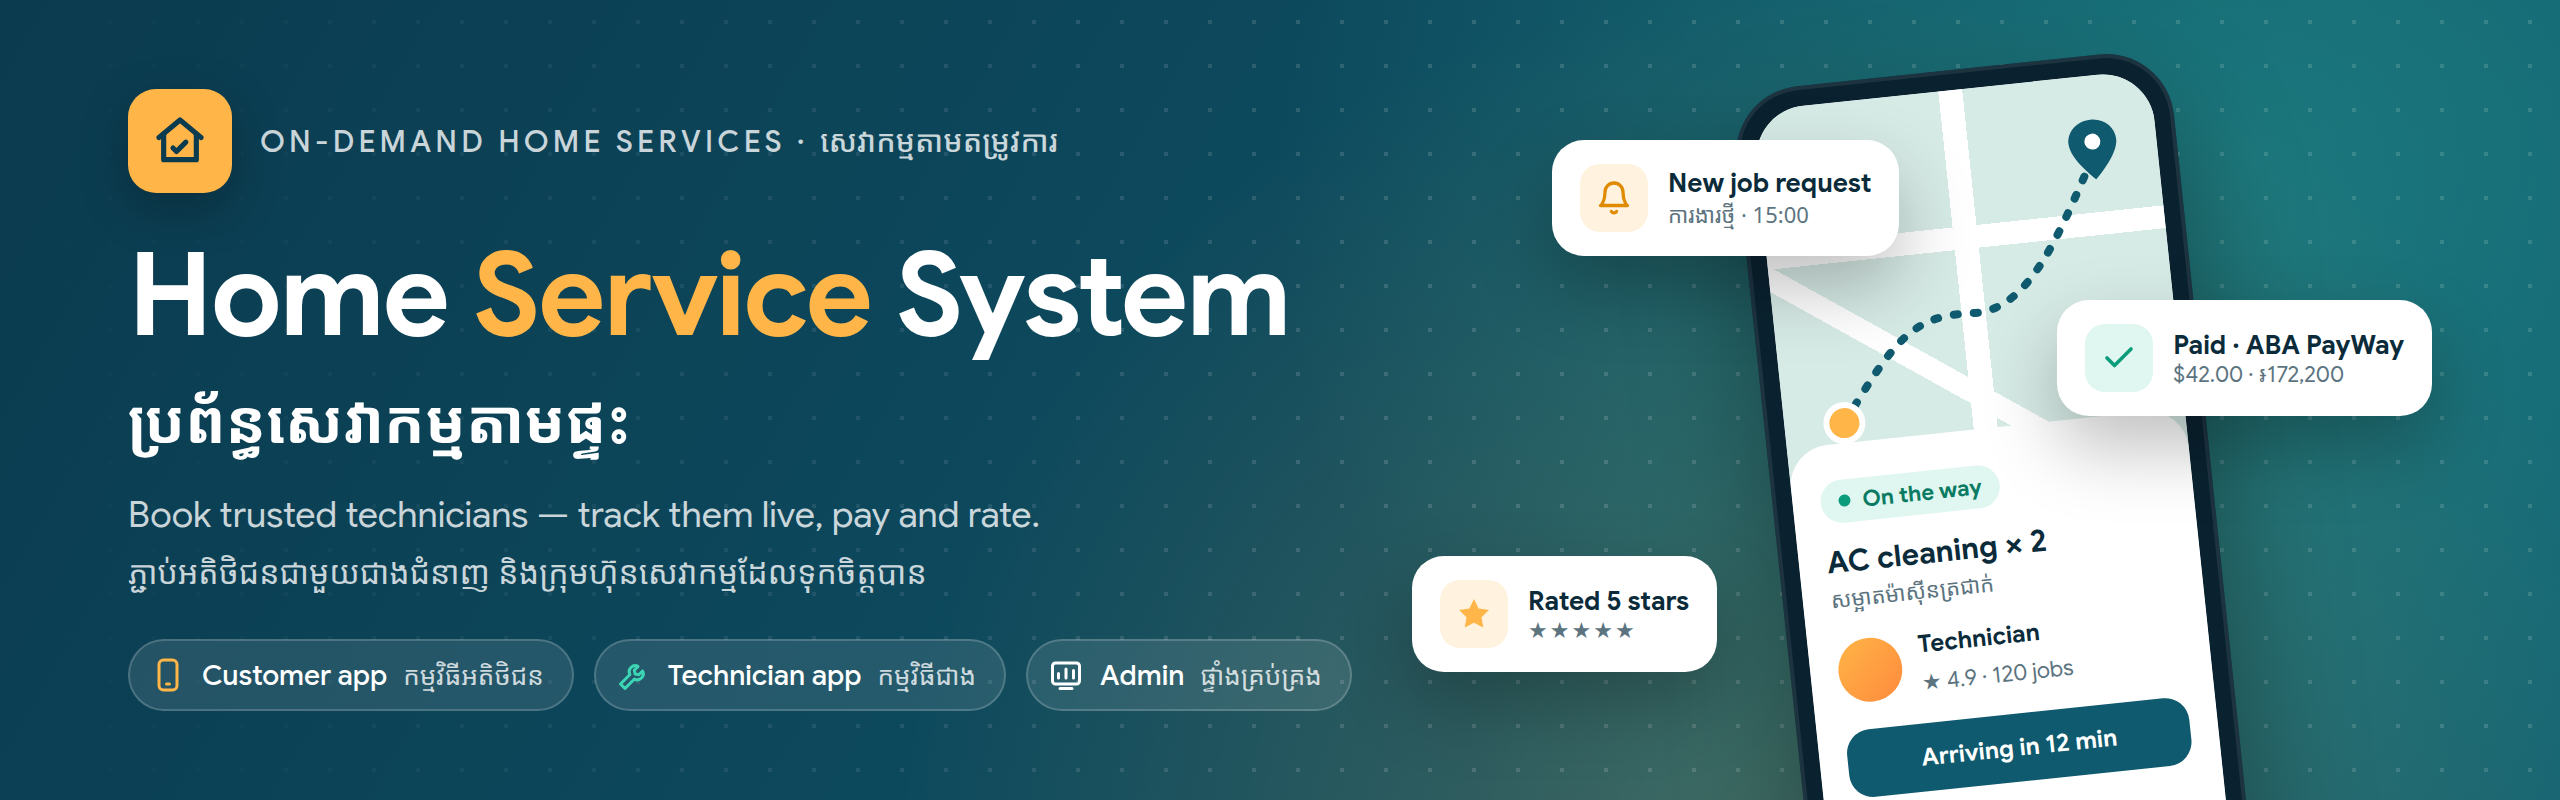
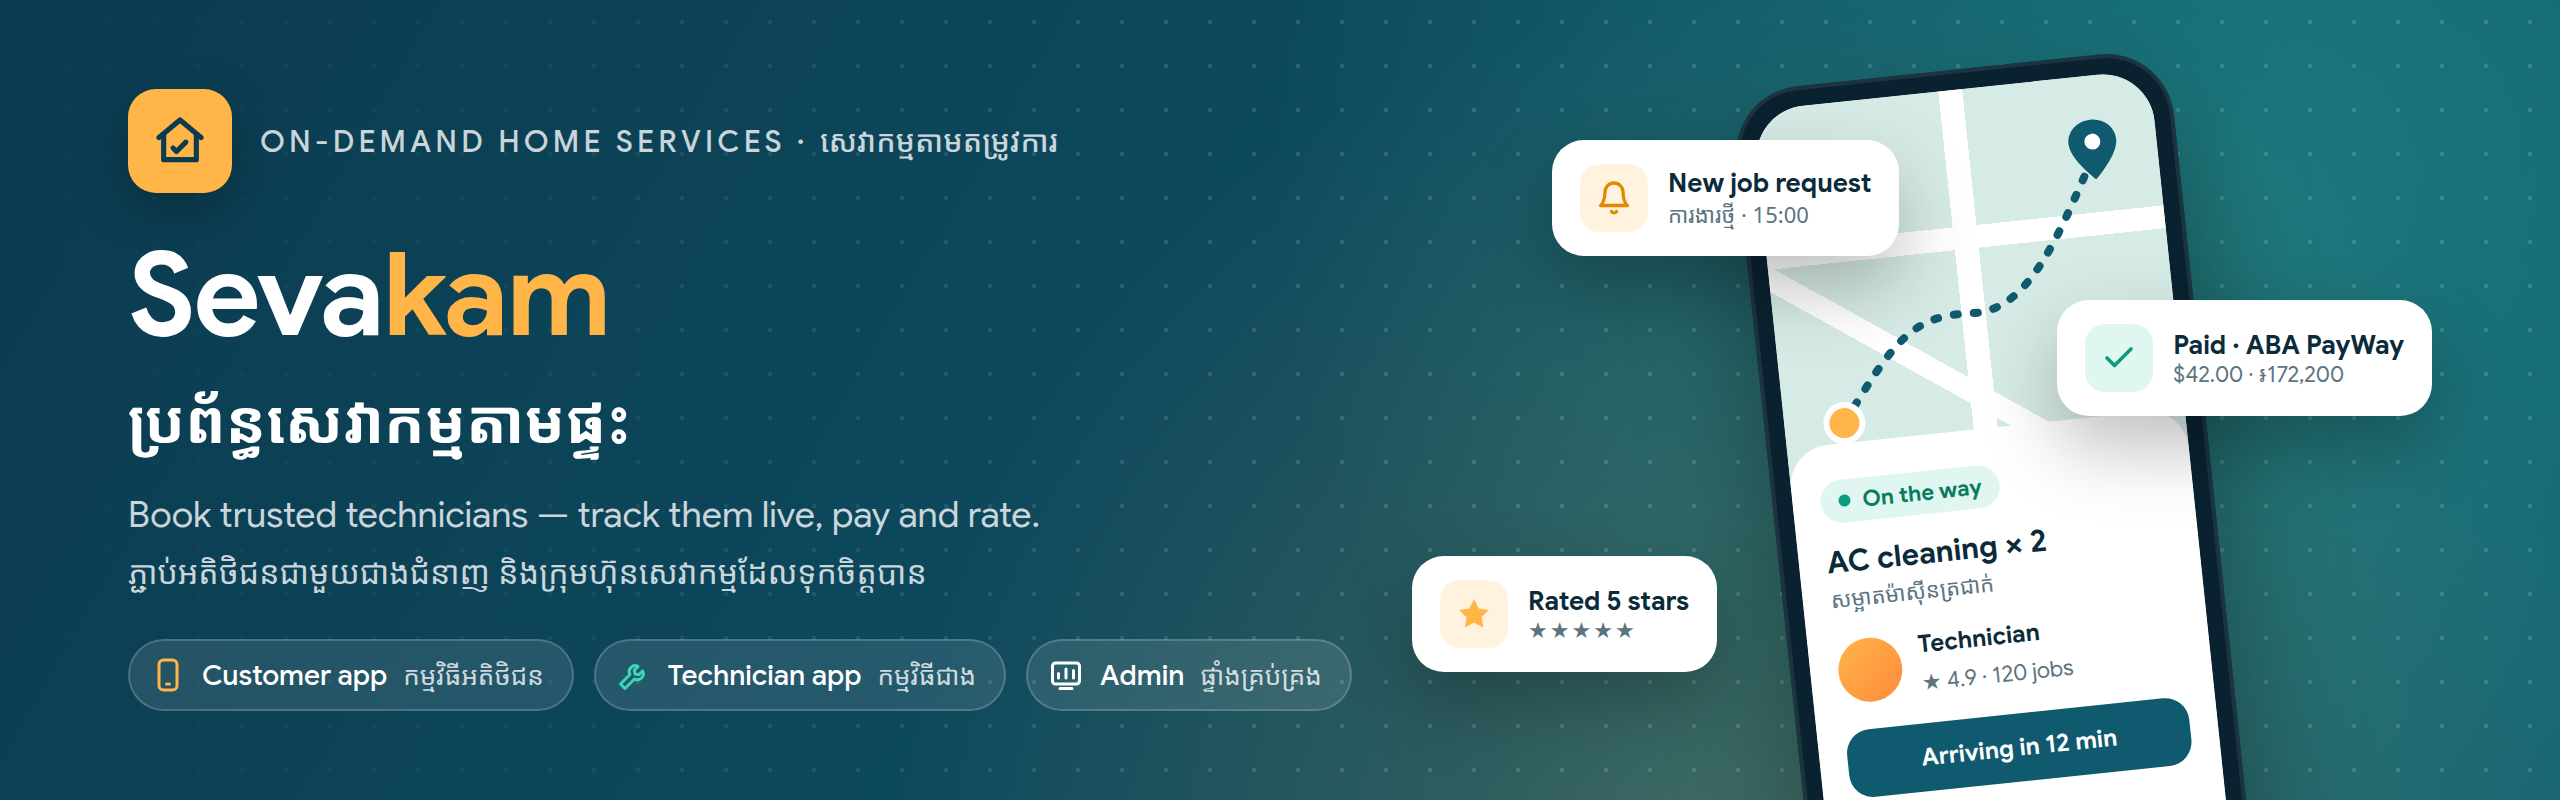
chore: update references from "Home Service System" to "Sevakam" across documentation and assets

Changed region(s): [[0.0312, 0.3125, 0.5, 0.4375]]

diff --git a/docs/index.html b/docs/index.html
@@ -3,15 +3,17 @@
 <head>
 <meta charset="utf-8">
 <meta name="viewport" content="width=device-width, initial-scale=1">
-<title>Home Service System — Investment Proposal</title>
-<meta name="description" content="Home Service System: a marketplace connecting Cambodian households with trusted technicians and service companies. Investment proposal 2026.">
+<title>Sevakam — Investment Proposal</title>
+<meta name="description" content="Sevakam: a marketplace connecting Cambodian households with trusted technicians and service companies. Investment proposal 2026.">
 
 <!-- Social share preview (investors often receive this link in chat apps) -->
 <meta property="og:type" content="website">
-<meta property="og:title" content="Home Service System — Investment Proposal">
+<meta property="og:title" content="Sevakam — Investment Proposal">
 <meta property="og:description" content="A marketplace connecting Cambodian households with trusted technicians and service companies.">
-<meta property="og:image" content="https://raw.githubusercontent.com/HELMAB/home-service-system/main/docs/assets/banner.png">
-<meta property="og:url" content="https://github.com/HELMAB/home-service-system">
+<meta property="og:image" content="https://sevakam.vercel.app/assets/banner.png">
+<meta property="og:site_name" content="Sevakam">
+<meta property="og:url" content="https://sevakam.vercel.app/">
+<link rel="canonical" href="https://sevakam.vercel.app/">
 <meta name="twitter:card" content="summary_large_image">
 
 <link rel="icon" type="image/svg+xml" href="assets/icon.svg">
@@ -106,7 +108,7 @@
       <span class="grid h-10 w-10 place-items-center rounded-xl bg-amber-500 text-ink-800 shadow-lg shadow-amber-500/30">
         <i data-lucide="house" class="h-[22px] w-[22px]" stroke-width="2.3"></i>
       </span>
-      <span class="hidden text-lg font-bold text-white sm:block" data-i18n="brand">Home Service</span>
+      <span class="hidden text-lg font-bold text-white sm:block" data-i18n="brand">Sevakam</span>
     </a>
 
     <div class="hidden items-center gap-7 text-sm font-medium text-white/80 lg:flex">
@@ -470,7 +472,7 @@
 
 <footer class="border-t border-ink-800/10 py-10">
   <div class="mx-auto flex max-w-7xl flex-col items-center justify-between gap-3 px-4 text-sm text-slate-500 sm:flex-row sm:px-6 lg:px-8">
-    <p data-i18n="foot.1">Home Service System · Investment proposal 2026</p>
+    <p data-i18n="foot.1">Sevakam · Investment proposal 2026</p>
     <p data-i18n="foot.2">Draft — figures and terms subject to discussion.</p>
     <a href="https://github.com/HELMAB/home-service-system" target="_blank" rel="noopener" class="inline-flex items-center gap-2 font-medium text-ink-700 transition hover:text-amber-600"><i data-lucide="github" class="h-4 w-4"></i>HELMAB/home-service-system</a>
   </div>
@@ -480,10 +482,10 @@
 /* ---------------- content ---------------- */
 const I18N = {
   en: {
-    'meta.title': 'Home Service System — Investment Proposal',
-    'meta.desc': 'Home Service System: a marketplace connecting Cambodian households with trusted technicians and service companies. Investment proposal 2026.',
+    'meta.title': 'Sevakam — Investment Proposal',
+    'meta.desc': 'Sevakam: a marketplace connecting Cambodian households with trusted technicians and service companies. Investment proposal 2026.',
     'menu.open': 'Open menu', 'menu.close': 'Close menu',
-    'brand': 'Home Service',
+    'brand': 'Sevakam',
     'nav.problem': 'Problem', 'nav.solution': 'Solution', 'nav.how': 'How it works', 'nav.model': 'Business model', 'nav.roadmap': 'Roadmap', 'nav.cta': 'Invest',
     'hero.badge': 'Investment proposal · 2026',
     'hero.title1': 'Home services,', 'hero.title2': 'booked in minutes.',
@@ -516,15 +518,15 @@ const I18N = {
     'road.eyebrow': 'Roadmap', 'road.title': 'Eight milestones to launch',
     'inv.eyebrow': 'The ask', 'inv.title': "What we're raising for", 'inv.amount': 'Amount and terms: to be discussed',
     'inv.d': 'Funding takes the product from a complete design to a launched marketplace in Phnom Penh.',
-    'cta.title': "Let's build Cambodia's home-service platform together.", 'cta.d': 'Read the full requirements and technical specification behind this proposal.',
+    'cta.title': "Let's build Sevakam — Cambodia's home-service platform — together.", 'cta.d': 'Read the full requirements and technical specification behind this proposal.',
     'cta.1': 'Read the full proposal', 'cta.2': 'Technical specification', 'cta.3': 'View on GitHub',
-    'foot.1': 'Home Service System · Investment proposal 2026', 'foot.2': 'Draft — figures and terms subject to discussion.',
+    'foot.1': 'Sevakam · Investment proposal 2026', 'foot.2': 'Draft — figures and terms subject to discussion.',
   },
   km: {
-    'meta.title': 'ប្រព័ន្ធសេវាកម្មតាមផ្ទះ — សំណើវិនិយោគ',
-    'meta.desc': 'ប្រព័ន្ធសេវាកម្មតាមផ្ទះ៖ ទីផ្សារឌីជីថលដែលភ្ជាប់គ្រួសារកម្ពុជាជាមួយជាងជំនាញ និងក្រុមហ៊ុនសេវាកម្មដែលទុកចិត្តបាន។ សំណើវិនិយោគ ២០២៦។',
+    'meta.title': 'Sevakam — សំណើវិនិយោគ',
+    'meta.desc': 'Sevakam៖ ទីផ្សារឌីជីថលដែលភ្ជាប់គ្រួសារកម្ពុជាជាមួយជាងជំនាញ និងក្រុមហ៊ុនសេវាកម្មដែលទុកចិត្តបាន។ សំណើវិនិយោគ ២០២៦។',
     'menu.open': 'បើកម៉ឺនុយ', 'menu.close': 'បិទម៉ឺនុយ',
-    'brand': 'សេវាកម្មតាមផ្ទះ',
+    'brand': 'Sevakam',
     'nav.problem': 'បញ្ហា', 'nav.solution': 'ដំណោះស្រាយ', 'nav.how': 'របៀបដំណើរការ', 'nav.model': 'គំរូអាជីវកម្ម', 'nav.roadmap': 'ផែនការ', 'nav.cta': 'វិនិយោគ',
     'hero.badge': 'សំណើវិនិយោគ · ២០២៦',
     'hero.title1': 'សេវាកម្មតាមផ្ទះ', 'hero.title2': 'កក់បានក្នុងប៉ុន្មាននាទី។',
@@ -557,9 +559,9 @@ const I18N = {
     'road.eyebrow': 'ផែនការ', 'road.title': 'ប្រាំបីដំណាក់កាលឆ្ពោះទៅការដាក់ឲ្យប្រើប្រាស់',
     'inv.eyebrow': 'សំណើ', 'inv.title': 'គោលបំណងនៃការរៃអង្គាសមូលនិធិ', 'inv.amount': 'ចំនួន និងលក្ខខណ្ឌ៖ នឹងពិភាក្សា',
     'inv.d': 'មូលនិធិនឹងនាំផលិតផលពីការរចនាពេញលេញ ទៅជាទីផ្សារដែលដំណើរការនៅភ្នំពេញ។',
-    'cta.title': 'តោះរួមគ្នាកសាងវេទិកាសេវាកម្មតាមផ្ទះរបស់កម្ពុជា។', 'cta.d': 'អានតម្រូវការ និងលក្ខណៈបច្ចេកទេសពេញលេញនៃសំណើនេះ។',
+    'cta.title': 'តោះរួមគ្នាកសាង Sevakam — វេទិកាសេវាកម្មតាមផ្ទះរបស់កម្ពុជា។', 'cta.d': 'អានតម្រូវការ និងលក្ខណៈបច្ចេកទេសពេញលេញនៃសំណើនេះ។',
     'cta.1': 'អានសំណើពេញលេញ', 'cta.2': 'លក្ខណៈបច្ចេកទេស', 'cta.3': 'មើលនៅលើ GitHub',
-    'foot.1': 'ប្រព័ន្ធសេវាកម្មតាមផ្ទះ · សំណើវិនិយោគ ២០២៦', 'foot.2': 'សេចក្តីព្រាង — តួលេខ និងលក្ខខណ្ឌអាចពិភាក្សាបាន។',
+    'foot.1': 'Sevakam · សំណើវិនិយោគ ២០២៦', 'foot.2': 'សេចក្តីព្រាង — តួលេខ និងលក្ខខណ្ឌអាចពិភាក្សាបាន។',
   },
 };
 

diff --git a/docs/assets/banner.html b/docs/assets/banner.html
@@ -2,7 +2,7 @@
 <html lang="en">
 <head>
 <meta charset="utf-8">
-<title>Home Service Banner</title>
+<title>Sevakam Banner</title>
 <link rel="preconnect" href="https://fonts.googleapis.com">
 <link rel="preconnect" href="https://fonts.gstatic.com" crossorigin>
 <link href="https://fonts.googleapis.com/css2?family=Google+Sans:wght@400;500;700&family=Noto+Sans+Khmer:wght@400;500;700&display=swap" rel="stylesheet">
@@ -123,7 +123,7 @@
       <div class="eyebrow">On-demand home services · <span class="km">សេវាកម្មតាមតម្រូវការ</span></div>
     </div>
 
-    <h1>Home <span class="hl">Service</span> System</h1>
+    <h1>Seva<span class="hl">kam</span></h1>
     <div class="km km-title">ប្រព័ន្ធសេវាកម្មតាមផ្ទះ</div>
 
     <p class="tagline">

diff --git a/README.md b/README.md
@@ -1,14 +1,14 @@
 <p align="center">
-  <img src="docs/assets/banner.png" alt="Home Service System — ប្រព័ន្ធសេវាកម្មតាមផ្ទះ: book trusted technicians, track them live, pay and rate" width="100%">
+  <img src="docs/assets/banner.png" alt="Sevakam — ប្រព័ន្ធសេវាកម្មតាមផ្ទះ: book trusted technicians, track them live, pay and rate" width="100%">
 </p>
 
-# Home Service System
+# Sevakam
 
-A mobile marketplace that connects people who need home services — repairs, cleaning, installation, maintenance — with trusted independent technicians and service companies, operated through a web admin dashboard.
+**Sevakam** (សេវាកម្ម, "service") is a mobile marketplace that connects people who need home services — repairs, cleaning, installation, maintenance — with trusted independent technicians and service companies, operated through a web admin dashboard.
 
 > **Status:** Proposal & design complete, implementation starting (milestone M0). See [Documentation](#documentation).
 >
-> **Repository:** [github.com/HELMAB/home-service-system](https://github.com/HELMAB/home-service-system) · **Landing page:** [`docs/index.html`](docs/index.html)
+> **Website:** [sevakam.vercel.app](https://sevakam.vercel.app) · **Repository:** [github.com/HELMAB/home-service-system](https://github.com/HELMAB/home-service-system) · **Landing page source:** [`docs/index.html`](docs/index.html)
 
 ---
 

diff --git a/CLAUDE.md b/CLAUDE.md
@@ -4,7 +4,7 @@ This file provides guidance to Claude Code (claude.ai/code) when working with co
 
 ## What this is
 
-A monorepo for a home-service marketplace: customers book services, technicians (freelancers or company employees) do the work, and an admin operates the platform. Four independent projects:
+A monorepo for **Sevakam** (https://sevakam.vercel.app), a home-service marketplace for Cambodia: customers book services, technicians (freelancers or company employees) do the work, and an admin operates the platform. Four independent projects:
 
 | Directory | Project | Stack |
 | --------- | ------- | ----- |

diff --git a/docs/spec/README.md b/docs/spec/README.md
@@ -1,4 +1,4 @@
-# Technical Specification — Home Service System
+# Technical Specification — Sevakam
 
 Status: **Draft v0.1** (2026-11-19)
 Derived from: [`docs/pr`](../pr/README.md) (project requirements) and `Home Service Mobile.xlsx` (original task list and estimates, kept in this folder).

diff --git a/docs/pr/README.md b/docs/pr/README.md
@@ -1,4 +1,4 @@
-# Project Requirements — Home Service System
+# Project Requirements — Sevakam
 
 Status: **Draft v0.1** (2026-11-19)
 Source: `docs/spec/Home Service Mobile.xlsx` + clarification session with the product owner.

diff --git a/docs/tasks/README.md b/docs/tasks/README.md
@@ -1,4 +1,4 @@
-# Tasks — Home Service System
+# Tasks — Sevakam
 
 Status: **Draft v0.1** (2026-11-19) · Derived from [`docs/spec`](../spec/README.md) · Planned for a **solo developer** (one sequential path, no estimates).
 
